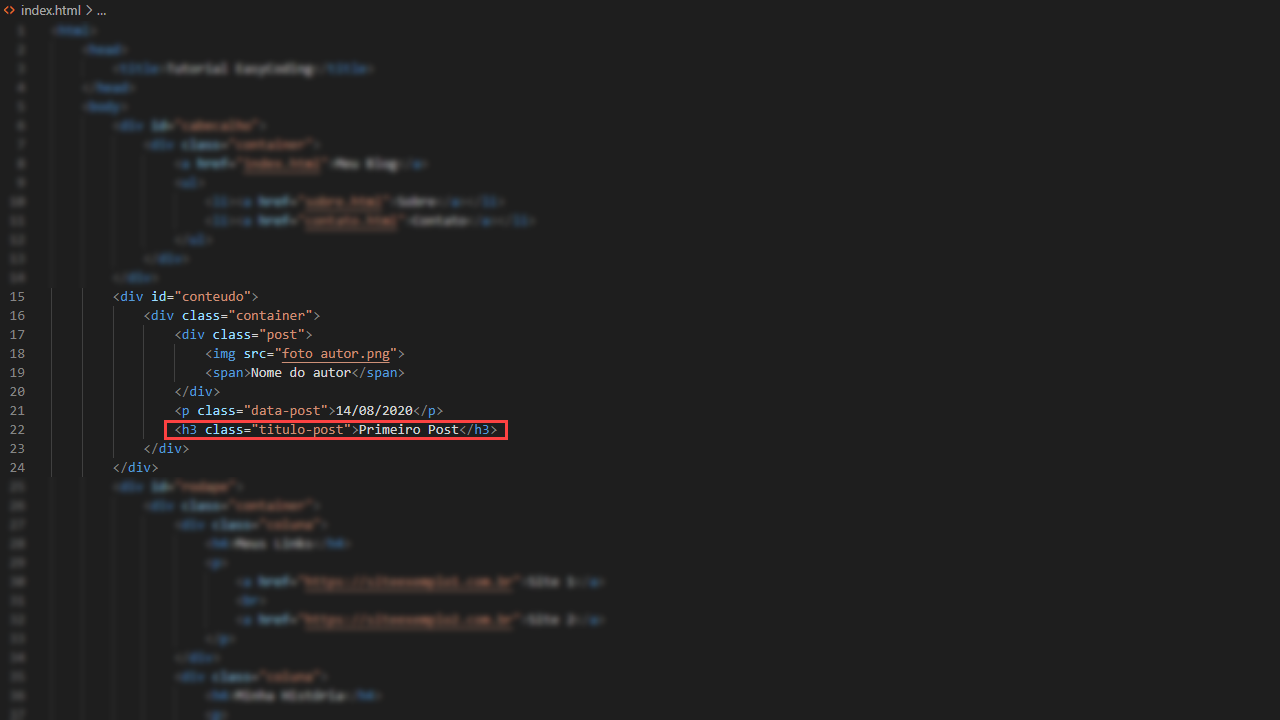
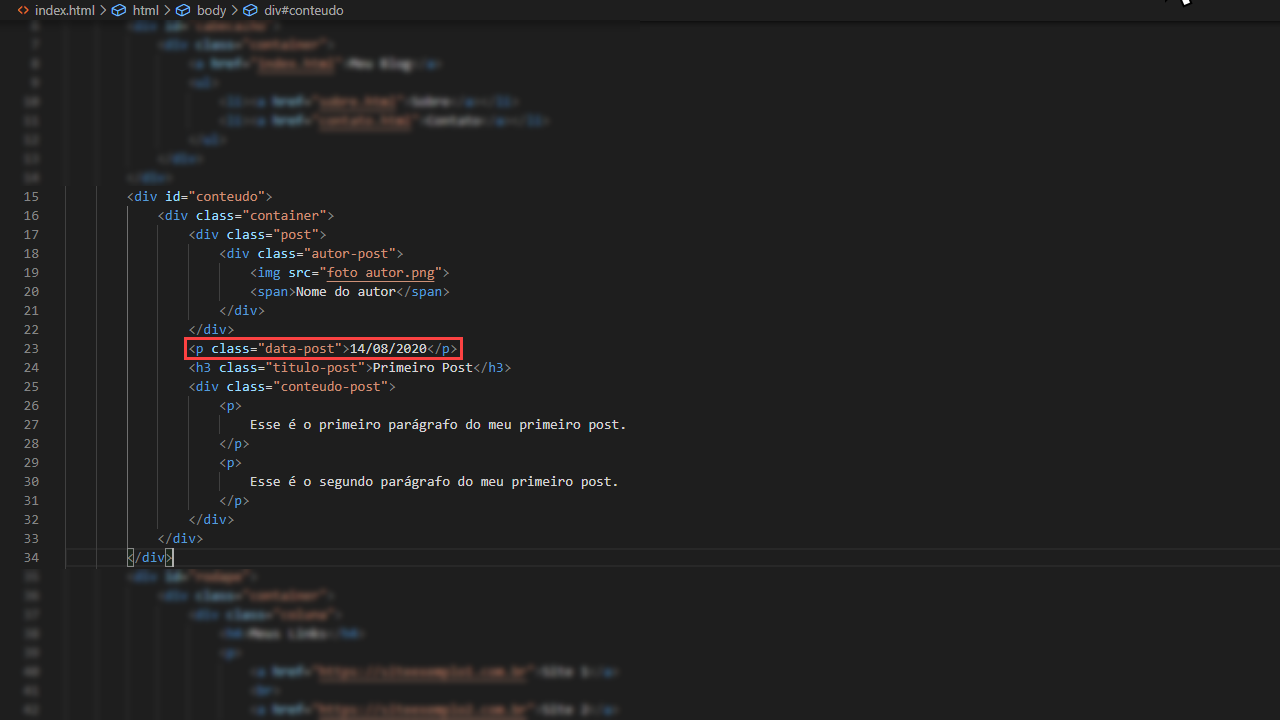
Patch

diff --git a/_posts/2020-08-14-como-criar-um-site-do-zero-pt4.md b/_posts/2020-08-14-como-criar-um-site-do-zero-pt4.md
@@ -16,44 +16,44 @@ Vamos adicionar o post!
 
 Dentro  do container da seção conteúdo, adicione um elemento `<div>` de classe `post`.
 
-![01.png](https://heitormvl.github.io/easycoding/images/ccsz4/01.png)
+![1.png](https://heitormvl.github.io/easycoding/images/ccsz4/1.png)
 
 Dentro do post, adicione um elemento `<div>` de classe `autor-post`. Vamos colocar os detalhes do autor aqui.
 
-![02.png](https://heitormvl.github.io/easycoding/images/ccsz4/02.png)
+![2.png](https://heitormvl.github.io/easycoding/images/ccsz4/2.png)
 
 Agora encontre ou faça uma foto quadrada de você e mova-a para a pasta onde está o código.
 
-![03.png](https://heitormvl.github.io/easycoding/images/ccsz4/03.png)
+![3.png](https://heitormvl.github.io/easycoding/images/ccsz4/3.png)
 
 Então adicione um elemento `<img>` dentro da seção de detalhes do autor e um atributo `<src>` que aponte para a imagem.
 
 \* *Lembrete 1: elementos* `<img>` *não têm uma tag de fechamento*  
 \* *Lembrete 2: ao definir o caminho de atributos como* `href` *e* `src` *o VSC lista os arquivos e pastas disponíveis automaticamente, de forma semelhante às tags e atributos, bastando apenas selecionar o arquivo desejado e pressionar **ENTER***
 
-![03.png](https://heitormvl.github.io/easycoding/images/ccsz4/03.png)
+![4.png](https://heitormvl.github.io/easycoding/images/ccsz4/4.png)
 
 Abaixo da imagem, adicione um elemento `<span>` que contenha seu nome.
 
-![04.png](https://heitormvl.github.io/easycoding/images/ccsz4/04.png)
+![5.png](https://heitormvl.github.io/easycoding/images/ccsz4/5.png)
 
 Então, abaixo de toda a seção de detalhes do autor, adicione um elemento `<p>` de classe `data-post` e, dentro dele, entre a data de hoje.
 
-![05.png](https://heitormvl.github.io/easycoding/images/ccsz4/05.png)
+![6.png](https://heitormvl.github.io/easycoding/images/ccsz4/6.png)
 
 Abaixo da data do post, adicione um elemento `<h3>` de classe `titulo-post` e, entre sua tag de abertura e fechamento, dê ao post um título.
 
-![06.png](https://heitormvl.github.io/easycoding/images/ccsz4/06.png)
+![7.png](https://heitormvl.github.io/easycoding/images/ccsz4/7.png)
 
 Finalmente, coloque um elemento `<div>` de classe `conteudo-post` abaixo do título e adicione dois parágrafos com texto dentro da seção.
 
-![07.png](https://heitormvl.github.io/easycoding/images/ccsz4/07.png)
+![8.png](https://heitormvl.github.io/easycoding/images/ccsz4/8.png)
 
 Pronto! A seção de conteúdo ganhou seu primeiro post.
 
 Vamos ver como ficou? *(Salve o arquivo e **CTRL** + **1**)*
 
-![08.png](https://heitormvl.github.io/easycoding/images/ccsz4/08.png)
+![9.png](https://heitormvl.github.io/easycoding/images/ccsz4/9.png)
 
 ## Página Sobre
 
